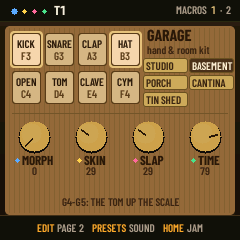
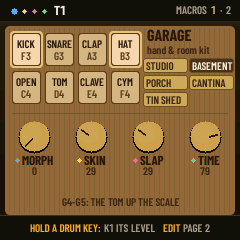
TFM-UI round 11: the report and the re-rendered screens -- NIGHT-REPORT-UI.md Round 11 (sizes per item and per removed part: the three sample engines -10,884 B flash / -6,768 B RAM, HOME > JAM -1,308 B; the budgets: flash 68,492 B free, RAM 10,872 B free, ISR +8.8 %; the setup code kept for CLASSIC'

Changed region(s): [[0.1167, 0.9333, 0.6417, 0.9917], [0.6708, 0.9333, 0.875, 0.9917]]

diff --git a/NIGHT-REPORT-UI.md b/NIGHT-REPORT-UI.md
@@ -390,3 +390,50 @@ Branch `tfm-ui`: `fbe50da` (1), `008004d` (2), `d7f75dd` (3), `cba3b09` (4), `f3
 - M-VAVE's page still offers V16 (2026_10_21), unchanged since round 9.
 
 **Suite (round 10):** tests=0 (ALL HOST TESTS PASSED), no FAIL lines, target_budget 0. The first run caught persistence_test, which builds project.c without the TFM UI: the sheet's storage half is now built with the UI only (`efe5876`). 0 lint findings, alignment 0 off. Final build 516,816 B, RAM 63,464 B, pool 365,756 B. Published as the installer preview (next/), the tested release at the root unchanged.
+
+## Round 11 (ROUND-11.md)
+
+Branch `tfm-ui`: `0299c2e` (1), `3d17d94` (2), `4e83caa` (3), `5121c9b` (4), `e333255` (5). Package `tilt-fm-ui-r11-<sha>.fwsc`. Nothing was run on an FM-1. Plan and review in `TILT-FM/tasks/todo.md`.
+
+**Budgets** (app image / RAM .data+.bss; pool 365,756 B, unchanged): round 10 final 516,816 / 63,464.
+- Item 1: 504,752 / 56,680. By part: SAMPLE + GRAIN + SLICE **-10,884 B flash, -6,768 B RAM** (the user-slot zone tables and SLICE's state); the SCENES screen +160 B (nothing called it, so the compiler had already left it out: removing the source only moved the inlining); HOME > JAM **-1,308 B, -16 B RAM**; the setup code kept (below).
+- Item 2: 506,756 / 56,712 (+2,004, +32). Item 3: 506,772 (+16). Item 4: 507,176 (+404). Item 5: 513,072 (+5,896).
+- **Flash: 513,072 of the 581,564 B slot, 68,492 free (64,748 after round 10). RAM: 56,712 of 67,584 B, 10,872 free (4,120 after round 10). Audio ISR: 9,016 against its 8,285 budget, +8.8 % (limit +10 %; 9,021 after round 10).** No new RAM buffer, no new per-sample DSP.
+
+1. **Dead code out.**
+   - **SAMPLE, GRAIN, SLICE** are retired the way DIGITAL was: kept in the tree, built only with `FELUCCA_SAMPLE=1` / `FELUCCA_SLICE=1` (core.h, both 0 now). The engine numbers stay: `NENGINES` is fixed at 14 and 4, 8, 13 point at `ENG_GONE` (fm4_convert.c's silent stand-in, now shared). `ENG_RETIRED()` keeps them out of PRESETS, DEEP's and CLASSIC's engine pickers (`eng_ok`, `ENGINE_ORDER`; 10 engines shown). An old project or user preset that names one loads with its values and plays silent; a user preset of one is in no engine's list and loads silent from its slot. Test `test_tfm_retired`: a project and a user preset saved with each of the three load, play (transport, notes, screens) and render zero.
+   - Felucca's own sample tests build the engines (`$ENG` in run_tests.sh, with the data header); GRAIN's four factory goldens are gone from tests/golden.txt; their render loops are optional in target_budget.py, as DIGITAL's.
+   - The EDIT layer's engine grid has 12 cells now, which switched it to a taller layout never drawn before (its icons off by 1 px); it keeps its compact rows.
+   - **SCENES screen** (`tu_scenes_draw`, its helpers, `TU_SCENES`) removed; `ui_scenes` render gone.
+   - **HOME > JAM** (`graph_jam`, `jam_cards`, MENU > DISPLAY > HOME JAM) removed; `jam_turn` stays for JAM's knobs, and the knob ring table stays because SOUND's faces draw it. A HOME value of 3 saved before shows SCOPE (as any unknown value did).
+   - **The setup code stays.** Nothing in the console, the editor protocol or the web tools calls `tfm_encode` / `tfm_decode`, but CLASSIC's own NEW SONG screen (tilt.c) still has its CODE row (SELECT reaches it; K1-K3 type a code), which calls both.
+2. **Assignable SELECT.**
+   - SETUP has two new rows, SELECT and GLO + SELECT: OFF FILTER ECHO SPACE MORPH LEVEL MOD SCENE SWING TEMPO. Defaults FILTER and SCENE. SETUP shows ten rows at a time and scrolls with its lit four.
+   - Saved in the setup's free bytes 11 and 12 (favorites.factory[13], 0 = the default): **no settings size change**.
+   - SELECT acts on JAM, MIX, SOUND and DRUMS. On DRUMS it used to move the step cursor too; K1 still does. SONG, SONGS and SETUP keep it for moving, NOTES its pitch scroll.
+   - **FX's K1 FILTER and the DJ's FILTER are different values:** the FX layer's is `perf_k[0]`, a momentary macro back to 0 when FX is let go; the DJ's is the song's `G_DRLVL` value through `dj_set`. SELECT = FILTER moves the DJ's, so JAM's DJ marker shows it.
+   - MORPH is macro 1 on every instrument; MOD the mod wheel plus CC1 out; SCENE cues the next or previous stored scene as a tap on its key would; SWING the song's; TEMPO the tempo.
+   - With REC on while playing FILTER, ECHO, SPACE, MORPH, LEVEL and MOD record as motion. MOD needed a motion id of its own, `MO_MW`, after the DJ's (no format change: the motion block already holds ids up to 127); its moves play back into the mod wheel. **Gap:** playing them back does not send CC1 out again, only the turn does.
+   - The header's right side shows the name and value for about a second; on hold GLO it is in the DMD (item 5).
+   - MENU > CONTROL > SELECT is hidden in TFM (it was CONTROL's last row) and stays in CLASSIC.
+   - Test `test_r11_select`: every choice on the four screens, OFF, the lists, GLO + SELECT, the defaults, recorded or not, MOD's playback, a settings export and import.
+3. **BARS' repeat mark** is option B LOOP ARROWS: the 15 x 11 map, centred, in the ring's colour, the notes under its box cleared first. `tfm-spec/built/_bars_repeat_vs_drawing.png` shows the drawing beside the render.
+4. **A drum's level from SOUND** on THUMP LAB, KITBOX and GARAGE.
+   - **Keys:** the round file says F3..C4; the keys that play lanes 1-8 are the white keys F3..F4 (round 9's map), so holding the key that plays a drum is what works.
+   - **While held:** K1 sets that lane's level (P_LN0 + lane, LANES' range and law), the pad or column lights and the bar moves; K2-K4 do nothing; the footer says K1 LEVEL / LET GO DONE. The drum faces' footer has HOLD A DRUM KEY: K1 ITS LEVEL.
+   - **Undo:** one copy per hold, so hold SAVE puts the level back.
+   - **Sound:** the key sounds as it goes down (no delay added to playing), so a tap plays; turning adds nothing more.
+   - Test `test_r11_drum_level`.
+5. **The hold screens** FX, GLO, SCL and SEQ in TFM's look (tfm_hold.c); the keys and knobs are untouched and the layers' tests pass unchanged. Renders `ui_hold_fx`, `ui_hold_fx_latch`, `ui_hold_glo`, `ui_hold_scl`, `ui_hold_seq`, `ui_hold_euclid`; lint 0.
+   - **Differences from the drawings:**
+     - The DMD lines are 11 px text, not the drawing's tiny dot font.
+     - GLO's columns name the solo key ("F3") without the word SOLO (the footer says WHITE SOLO) and leave out the instrument names, which do not fit at 11 px.
+     - SEQ's eight track tools are two columns of four.
+   - EUCLID, while open, gets the same frame: its cycle as cells with the hits lit, HITS / STEPS / ROT in the DMD.
+
+**Exit path** (tasks/lessons.md):
+- The backup export is covered by the suite's web backup test.
+- **Still no V15 file on this PC.** The only FM-1.fwsc here is V16 (Downloads, 718,196 B, SHA-256 d017fb65e70aca97ee29d944470c3515a74581df5c0576bf70de917c7b2b61d5). So "Return to official V15" could not be run against a real file, and nothing is pinned yet.
+- M-VAVE's downloads list still offers V16 (2026_10_21).
+
+**Suite (round 11):** ALL HOST TESTS PASSED, target_budget 0, 0 lint findings, alignment 0 off. Final build 513,072 B, RAM 56,712 B. Published as the installer preview (next/); the tested release at the root is unchanged.
